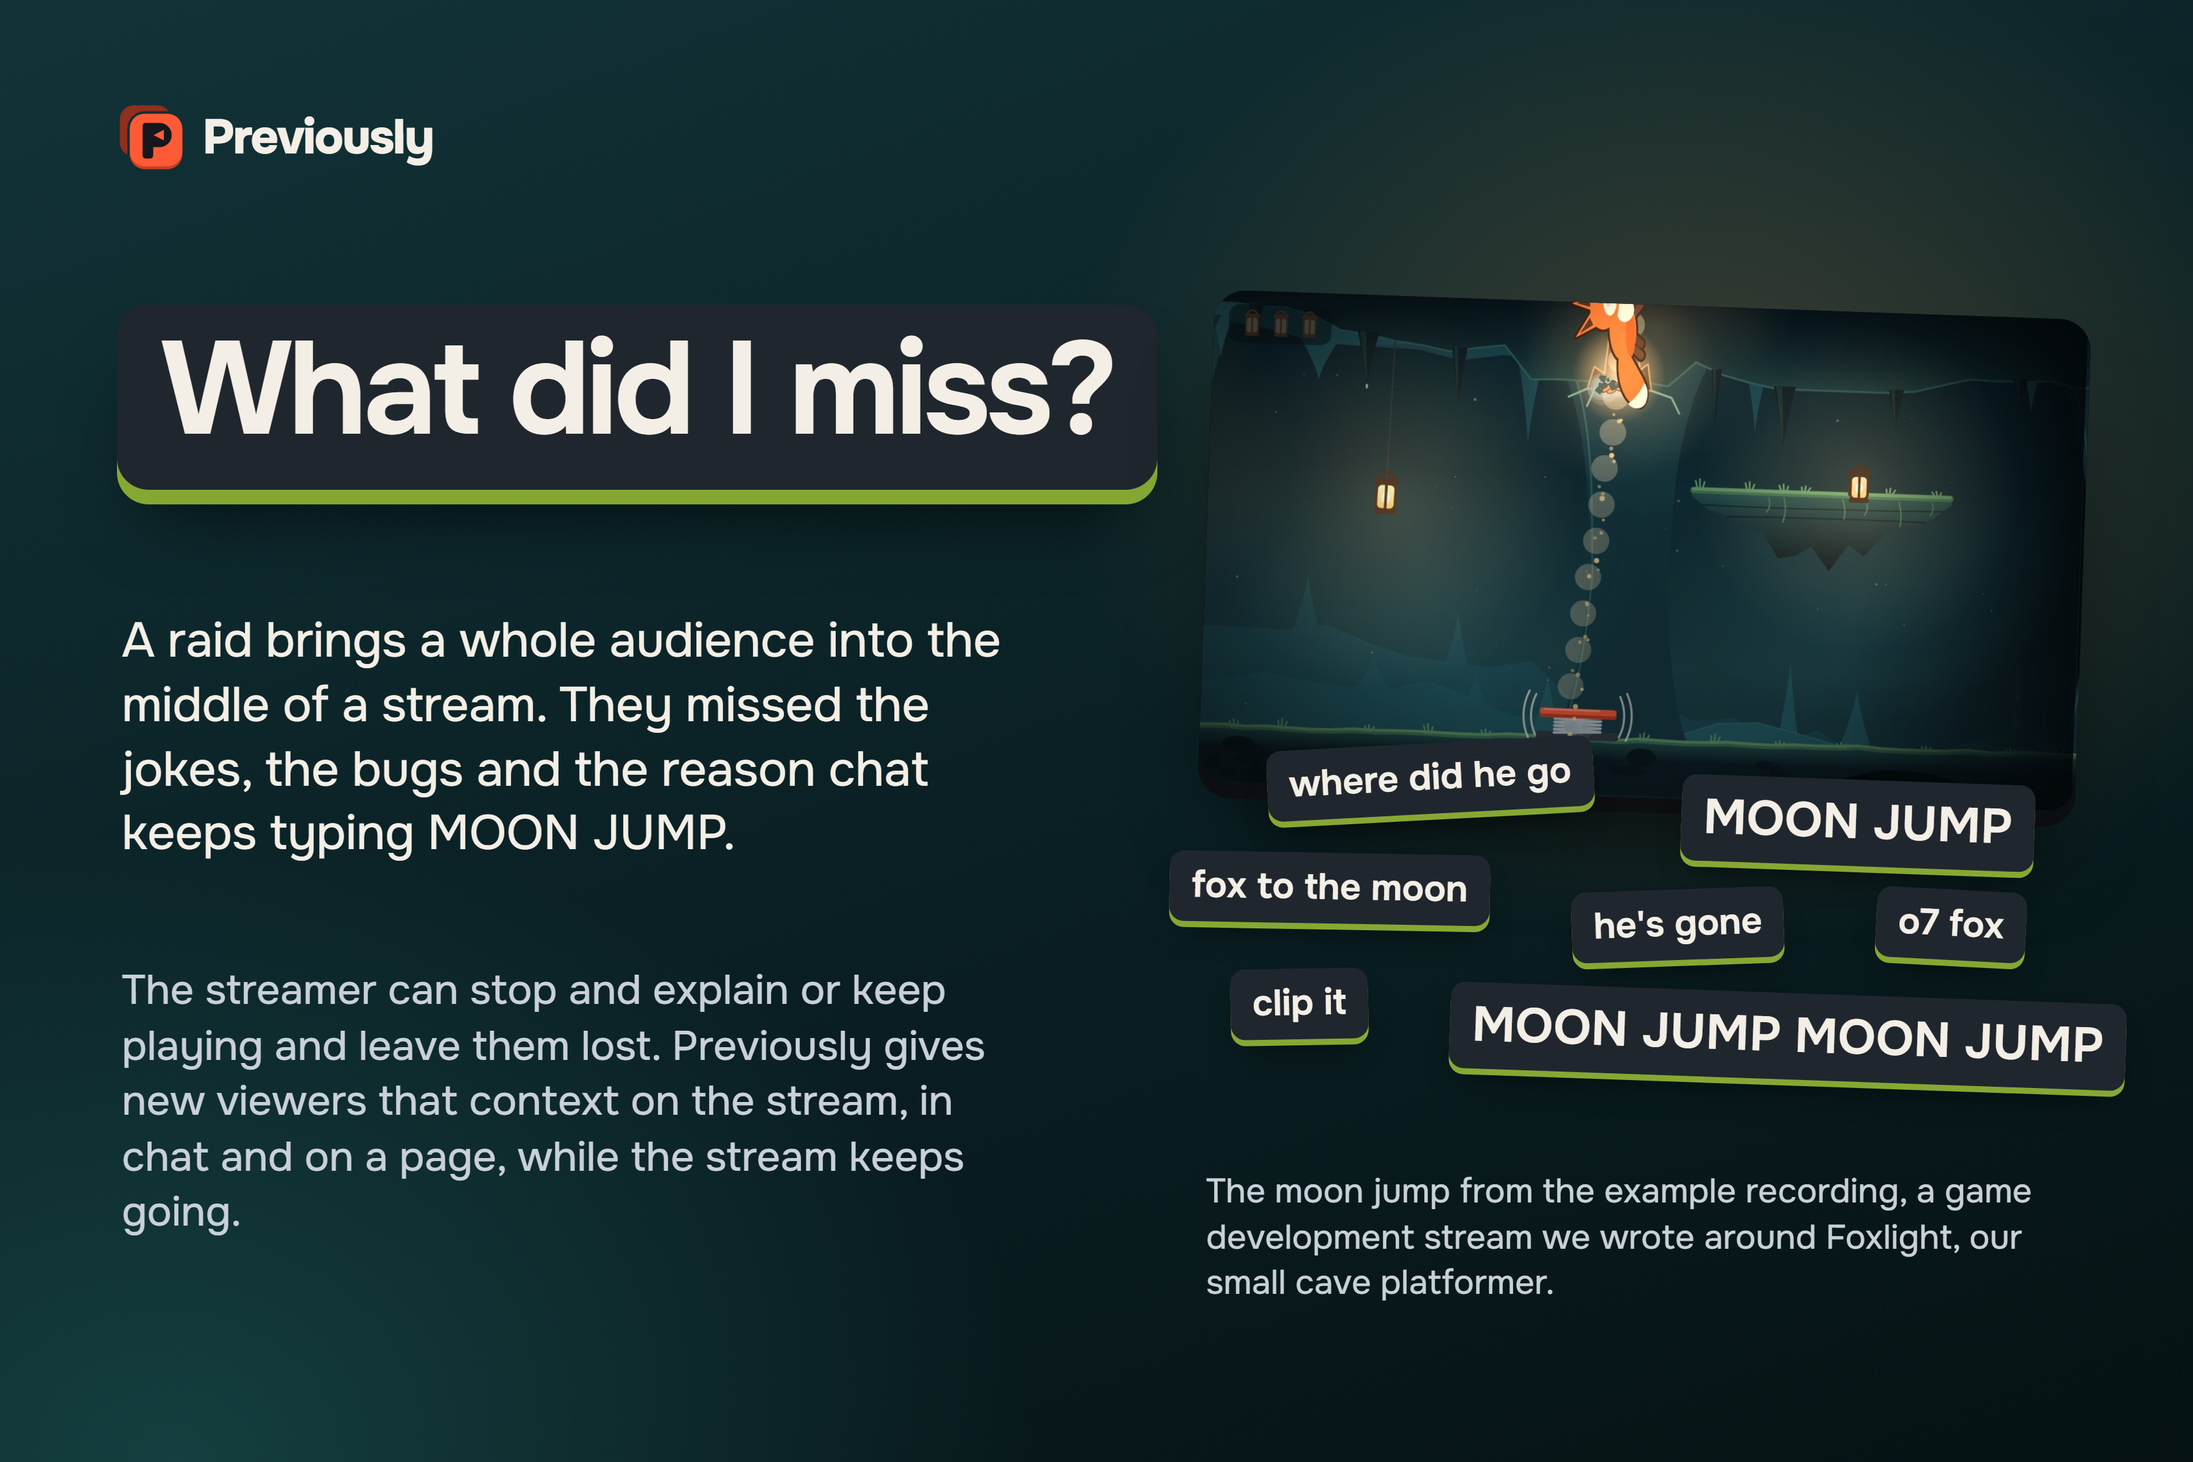
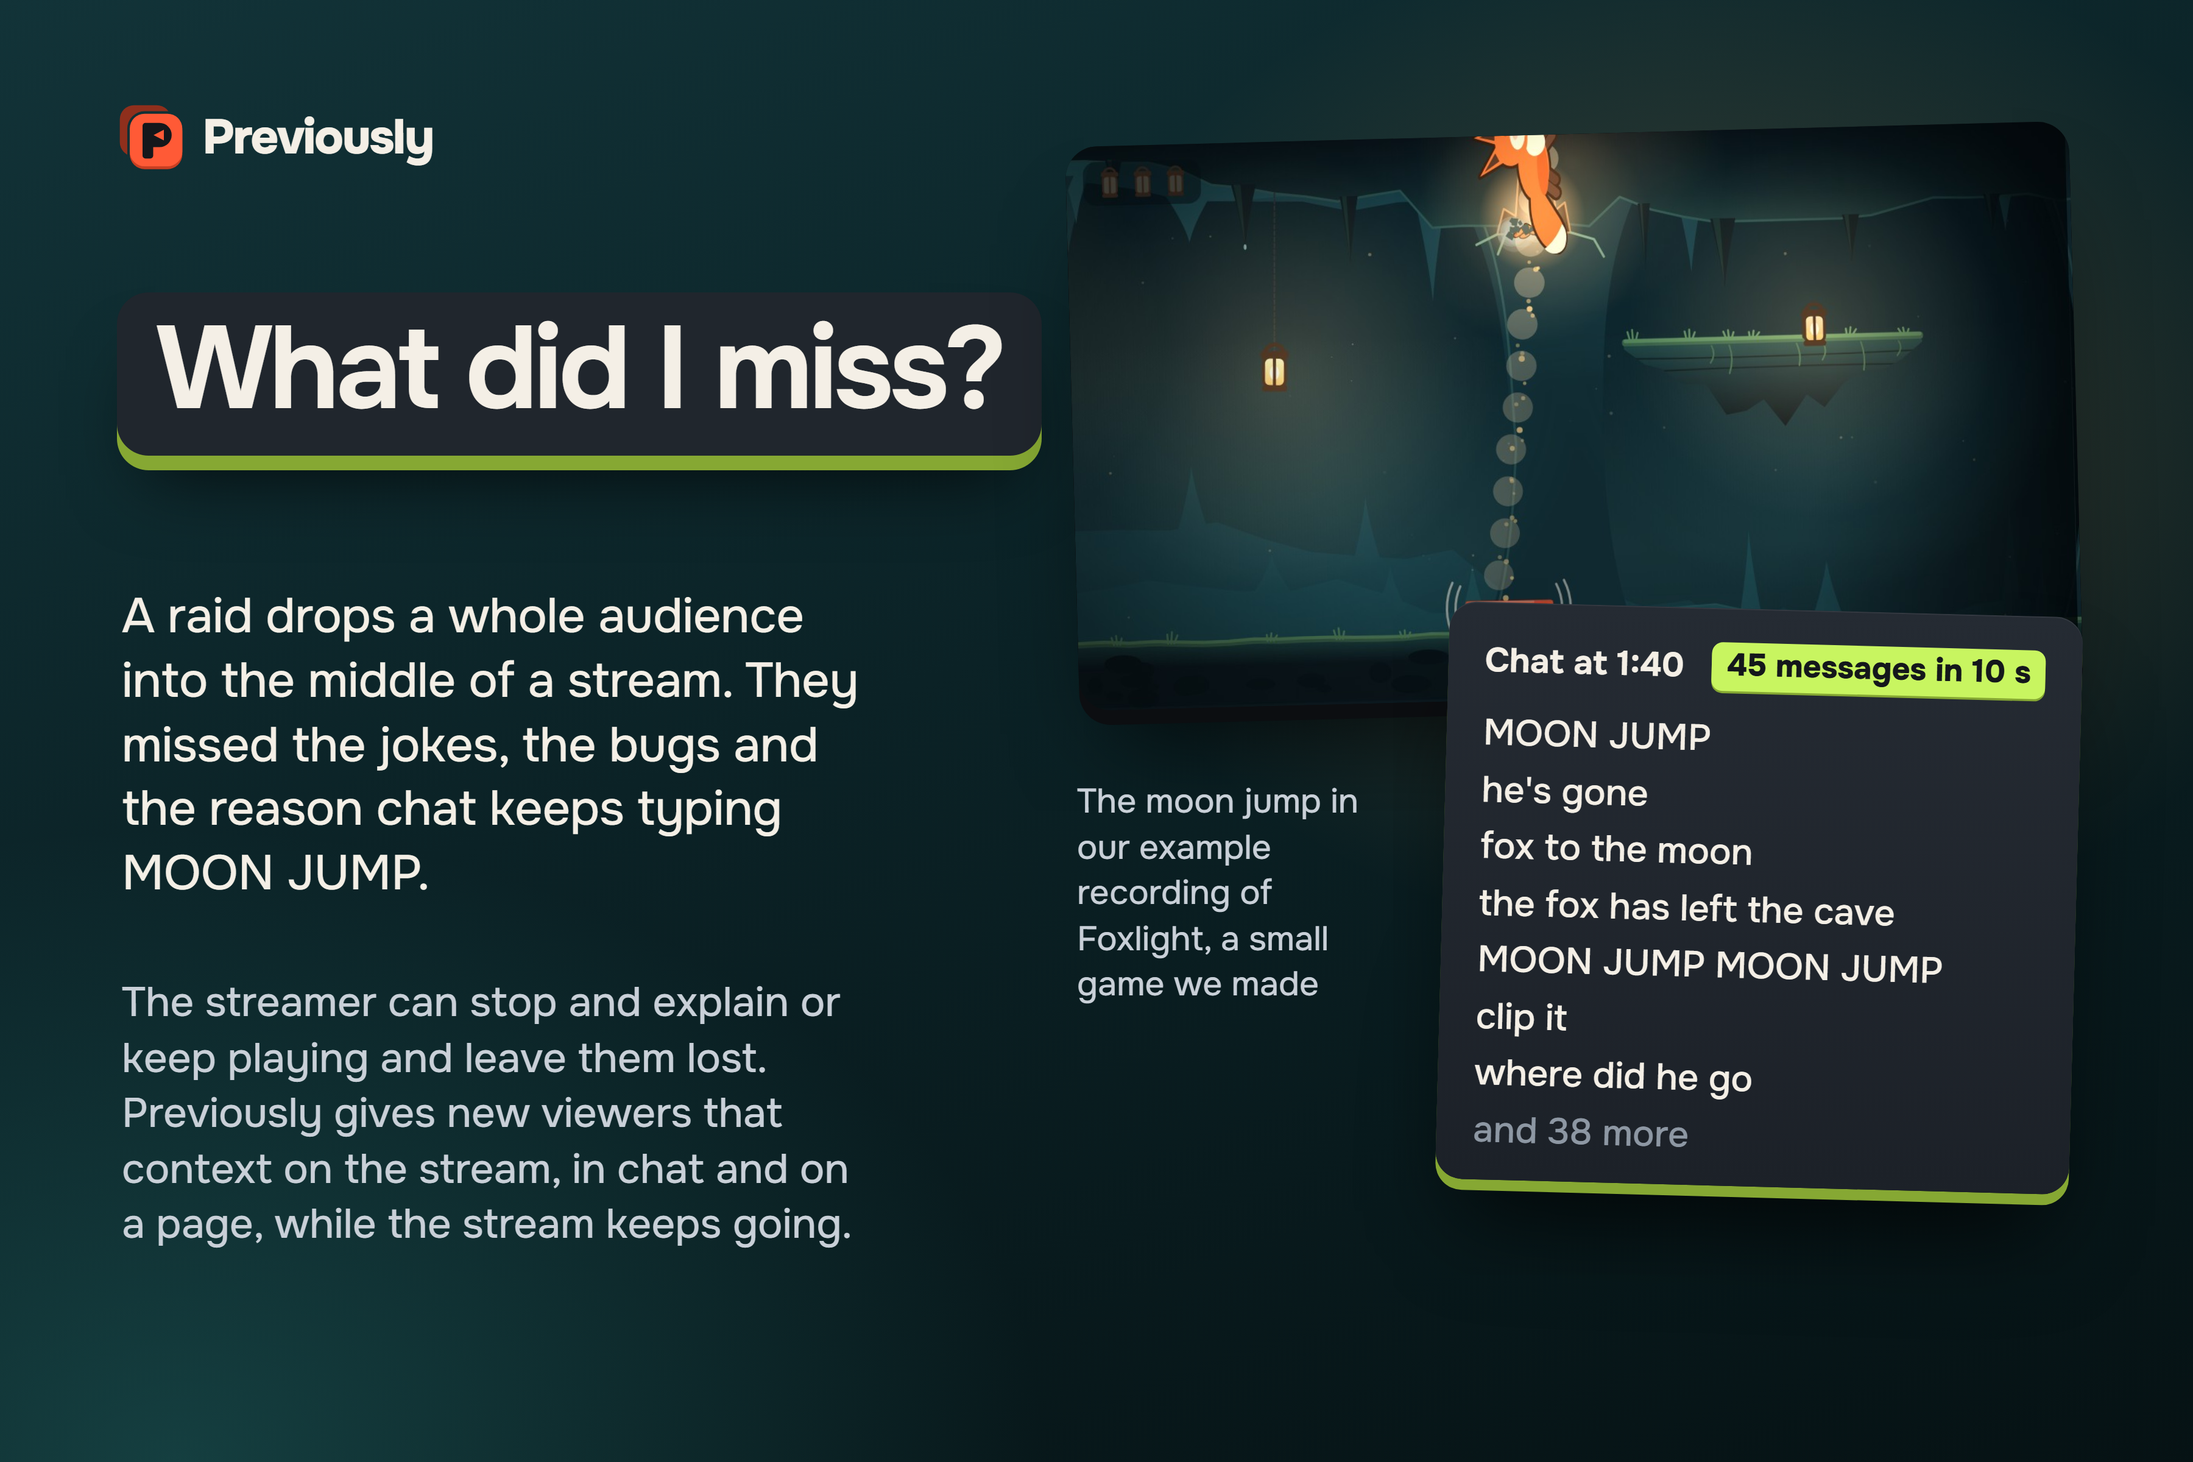
Readable chat moment in the gallery, more desktop screenshots and the video lower in the README

diff --git a/docs/gallery/source/deck.html b/docs/gallery/source/deck.html
@@ -126,31 +126,45 @@ img { display: block; }
 <!-- ============ 01 LATE ARRIVALS ============ -->
 <section class="slide cv-cave" id="late-arrivals" data-out="01-late-arrivals">
   <div class="logo" style="left:96px; top:84px;"><img src="../../../public/brand/mark.svg">Previously</div>
-  <div class="abs" style="left:96px; top:250px;"><span class="chip h1" style="font-size:108px; padding:18px 36px 28px; border-radius:26px; box-shadow: 0 12px 0 var(--lime-side), 0 40px 60px -24px rgba(0,0,0,.7);">What did I miss?</span></div>
-  <div class="abs lead" style="left:100px; top:500px; width:740px;">A raid brings a whole audience into the middle of a stream. They missed the jokes, the bugs and the reason chat keeps typing MOON JUMP.</div>
-  <div class="abs body muted-ink" style="left:100px; top:790px; width:720px;">The streamer can stop and explain or keep playing and leave them lost. Previously gives new viewers that context on the stream, in chat and on a page, while the stream keeps going.</div>
-  <div class="frame" style="left:990px; top:250px; width:720px; height:405px; transform: rotate(2deg);"><img src="../../../public/demo/foxlight/clip-moon.jpg"></div>
-  <div class="abs" style="left:1040px; top:610px; transform: rotate(-3deg);"><span class="chip">where did he go</span></div>
-  <div class="abs" style="left:1380px; top:640px; transform: rotate(2deg);"><span class="chip" style="font-size:40px;">MOON JUMP</span></div>
-  <div class="abs" style="left:960px; top:700px; transform: rotate(1deg);"><span class="chip">fox to the moon</span></div>
-  <div class="abs" style="left:1290px; top:730px; transform: rotate(-2deg);"><span class="chip">he's gone</span></div>
-  <div class="abs" style="left:1540px; top:730px; transform: rotate(3deg);"><span class="chip">o7 fox</span></div>
-  <div class="abs" style="left:1010px; top:795px; transform: rotate(-1deg);"><span class="chip">clip it</span></div>
-  <div class="abs" style="left:1190px; top:815px; transform: rotate(2deg);"><span class="chip" style="font-size:40px;">MOON JUMP MOON JUMP</span></div>
-  <div class="abs small muted-ink" style="left:990px; top:960px; width:720px;">The moon jump from the example recording, a game development stream we wrote around Foxlight, our small cave platformer.</div>
+  <div class="abs" style="left:96px; top:240px;"><span class="chip h1" style="font-size:96px; padding:16px 32px 24px; border-radius:26px; box-shadow: 0 12px 0 var(--lime-side), 0 40px 60px -24px rgba(0,0,0,.7);">What did I miss?</span></div>
+  <div class="abs lead" style="left:100px; top:480px; width:640px;">A raid drops a whole audience into the middle of a stream. They missed the jokes, the bugs and the reason chat keeps typing MOON JUMP.</div>
+  <div class="abs body muted-ink" style="left:100px; top:800px; width:620px;">The streamer can stop and explain or keep playing and leave them lost. Previously gives new viewers that context on the stream, in chat and on a page, while the stream keeps going.</div>
+
+  <div class="frame" style="left:880px; top:110px; width:824px; height:463px; transform: rotate(-1.5deg);"><img src="../../../public/demo/foxlight/clip-moon.jpg"></div>
+  <div class="icard" style="left:1184px; top:500px; width:520px; padding:28px 30px 24px; transform: rotate(1.5deg); box-shadow: 0 9px 0 var(--lime-side), 0 50px 80px -24px rgba(0,0,0,.8), inset 0 1px 0 rgba(255,255,255,.07);">
+    <div style="display:flex; align-items:center; justify-content:space-between; gap:16px;">
+      <span style="font-size:28px; font-weight:700;">Chat at 1:40</span>
+      <span class="plate l" style="font-size:26px; font-weight:800; padding:6px 12px 8px; border-radius:9px;">45 messages in 10 s</span>
+    </div>
+    <ol style="list-style:none; margin-top:22px; display:grid; gap:12px; font-size:30px; line-height:1.15; font-weight:500;">
+      <li>MOON JUMP</li>
+      <li>he's gone</li>
+      <li>fox to the moon</li>
+      <li>the fox has left the cave</li>
+      <li>MOON JUMP MOON JUMP</li>
+      <li>clip it</li>
+      <li>where did he go</li>
+      <li style="color:#8D97A3;">and 38 more</li>
+    </ol>
+  </div>
+  <div class="abs small muted-ink" style="left:884px; top:640px; width:270px;">The moon jump in our example recording of Foxlight, a small game we made</div>
 </section>
 
 <!-- ============ 02 RAID SCENE (anchor) ============ -->
 <section class="slide cv-verm" id="raid-scene" data-out="02-raid-scene">
-  <div class="abs h1" style="left:96px; top:96px; width:560px; font-size:88px;">When a raid lands, the stream plays its own <span class="plate k">Previously&nbsp;on</span></div>
-  <div class="abs body" style="left:100px; top:735px; width:520px; color:#2A0E07;">The scene is built from the story Previously has already published, so it starts as soon as the raid arrives. It greets the raiders, shows the clips that matter and the chat moment behind a running joke, then says what is happening now.</div>
-  <div class="frame" style="left:680px; top:96px; width:1024px; height:576px;"><img src="assets/scene/moon-burst.jpg"></div>
-  <div class="abs" style="left:680px; top:716px; width:1024px; display:grid; grid-template-columns: repeat(3, 1fr); gap:24px;">
-    <figure><div class="frame" style="position:relative; height:186px;"><img src="assets/scene/welcome.jpg"></div><figcaption class="small b" style="margin-top:26px; line-height:1.2;">Greets the raid by name</figcaption></figure>
-    <figure><div class="frame" style="position:relative; height:186px;"><img src="assets/scene/previously.jpg"></div><figcaption class="small b" style="margin-top:26px; line-height:1.2;">Opens the recap</figcaption></figure>
-    <figure><div class="frame" style="position:relative; height:186px;"><img src="assets/scene/now.jpg"></div><figcaption class="small b" style="margin-top:26px; line-height:1.2;">Ends on what is happening now</figcaption></figure>
-  </div>
-  <div class="abs small" style="left:680px; top:1052px; width:1024px; color:#3B1309;">From the example recording. Its chat and raid are written for the demo; the clips are real footage of Foxlight, the small game we made for it.</div>
+  <div class="abs h1" style="left:96px; top:84px; width:1620px; font-size:86px; white-space:nowrap;">Every raid gets its own <span class="plate k">Previously&nbsp;on</span></div>
+  <div class="frame" style="left:96px; top:262px; width:1110px; height:624px;"><img src="assets/scene/joke.jpg"></div>
+  <span class="abs ctl k" style="left:122px; top:240px; z-index:2;">Explains the joke chat named</span>
+
+  <div class="frame" style="left:1250px; top:262px; width:454px; height:255px;"><img src="assets/scene/welcome.jpg"></div>
+  <span class="abs ctl k" style="left:1272px; top:240px; z-index:2;">Greets the raid</span>
+  <div class="frame" style="left:1250px; top:564px; width:454px; height:255px;"><img src="assets/scene/previously.jpg"></div>
+  <span class="abs ctl k" style="left:1272px; top:542px; z-index:2;">Opens the recap</span>
+  <div class="frame" style="left:1250px; top:866px; width:454px; height:255px;"><img src="assets/scene/now.jpg"></div>
+  <span class="abs ctl k" style="left:1272px; top:844px; z-index:2;">Ends on right now</span>
+
+  <div class="abs body" style="left:100px; top:928px; width:1100px; color:#2A0E07;">It is built from the story already published, so it plays the moment the raid arrives, with the chapters and their real clips.</div>
+  <div class="abs small" style="left:100px; top:1072px; width:1100px; color:#3B1309;">From the example recording. Its chat and raid are written for the demo; the clips are real footage of Foxlight, the small game we made for it.</div>
 </section>
 
 <!-- ============ 03 CHAT COMMAND ============ -->

diff --git a/README.md b/README.md
@@ -12,8 +12,6 @@ Previously follows a Twitch stream while it happens. It listens to the streamer'
   <a href="https://previously-seven.vercel.app/replay"><b>Watch the example recording</b></a>&emsp;&emsp;<a href="#run-it-for-your-channel"><b>Run it for your channel</b></a>&emsp;&emsp;<a href="#how-the-story-is-built"><b>See how it works</b></a>
 </p>
 
-https://github.com/user-attachments/assets/403faf40-6864-4395-9494-d190995cd7de
-
 <p align="center"><img src="docs/readme/scene-loop.webp" width="720" alt="The Previously raid scene playing over Foxlight gameplay: chapter cards with real clips, chat's moon jump burst folding into the term, and the card saying what is happening now"></p>
 <p align="center"><sub>The raid scene from the example recording, captured from the app</sub></p>
 
@@ -37,10 +35,12 @@ A raid brings a group of people who have no idea what the stream is about. Regul
 
 In the example recording, Foxlight Dev is building a small cave platformer. At 1:40 a spring pad launches the fox through the ceiling and chat floods with "MOON JUMP". At 3:30 the spring gets a speed limit, and the moon jump stays in the game as a secret cheat. When pixelmoth raids with 37 viewers at 7:10, the scene walks them through the chapters with the real gameplay clips, shows chat's burst turning into the term "moon jump" and what it means, and ends on what is happening now: making the lantern behind the waterfall reachable. Then the overlay clears the screen.
 
-<p align="center"><img src="docs/readme/shot-scene-chapters.jpg" width="32%" alt="Raid scene: the first chapter card, Fox learns to jump, playing its gameplay clip over the stream"> <img src="docs/readme/shot-scene-chat.jpg" width="32%" alt="Raid scene: real chat lines saying MOON JUMP piling up next to the moon jump clip, 45 messages in ten seconds"> <img src="docs/readme/shot-scene-now.jpg" width="32%" alt="Raid scene: the final card saying the streamer is making the lantern behind the waterfall reachable"></p>
-<p align="center"><sub>The chapters so far, chat's moon jump burst, and what is happening now</sub></p>
+<p align="center"><img src="docs/readme/shot-scene-chapters.jpg" width="32%" alt="Raid scene: the first chapter card, Fox learns to jump, playing its gameplay clip over the stream"> <img src="docs/readme/shot-scene-chat.jpg" width="32%" alt="Raid scene: the moon jump chapter card next to a card explaining the term chat named: when the spring had no speed limit, it launched the fox through the ceiling"> <img src="docs/readme/shot-scene-now.jpg" width="32%" alt="Raid scene: the final card saying the streamer is making the lantern behind the waterfall reachable"></p>
+<p align="center"><sub>The chapters with their clips, the joke chat named explained, and what is happening now</sub></p>
 
 The same story answers `!previously` in chat and fills the channel's public page, where a late viewer can open the source behind any chapter. Every sentence is held back for 75 seconds after its last source and checked before anyone sees it, so the streamer has time to fix or remove it first.
+
+https://github.com/user-attachments/assets/403faf40-6864-4395-9494-d190995cd7de
 
 ## Try the example recording
 
@@ -51,8 +51,14 @@ The [hosted example](https://previously-seven.vercel.app/replay) needs no accoun
 3. In **Change the recap**, choose **Apply my wording** to rename the third chapter to "Moon jump becomes a cheat code", then **Preview the next raid scene** to see the correction in the scene.
 4. Switch the recap between English and Russian, or **Open the streamer dock** and type your own wording. The recording only contains safety checks for its own wording, so yours stays held, the same way a live edit waits when a check is unavailable. **Restart** gives you a fresh run, and nothing you change leaves your tab.
 
+<p align="center"><img src="docs/readme/shot-replay-burst.jpg" width="49%" alt="The example recording at 1:50, with 45 chat messages about the moon jump in the last ten seconds"> <img src="docs/readme/shot-replay-sources.jpg" width="49%" alt="The recap section with the sources behind the latest chapter: what the streamer said and what chat wrote, each with its time"></p>
+<p align="center"><sub>Chat's moon jump at 1:50 in the recording, and the speech and chat behind the latest chapter</sub></p>
+
 <p align="center"><img src="docs/readme/shot-replay.jpg" width="49%" alt="The example replay page with the raid scene over gameplay, the published chapters and the stream chat"> <img src="docs/readme/shot-recap-page.jpg" width="49%" alt="The public recap page for Foxlight Dev with what is happening now and the chapters with their clips"></p>
 <p align="center"><sub>The example replay after the raid, and the public recap page a late viewer opens from chat</sub></p>
+
+<p align="center"><img src="docs/readme/shot-replay-corrected.jpg" width="49%" alt="The recap after Apply my wording, with the third chapter renamed Moon jump becomes a cheat code and marked as edited by the streamer"> <img src="docs/readme/shot-replay-correction.jpg" width="49%" alt="The Change the recap panel showing the replaced chapter, the applied wording and a note that the recap page, chat answer and next raid scene use it"></p>
+<p align="center"><sub>One correction in the example: the recap uses it at once, and the panel shows where it went</sub></p>
 
 To run the same example on your own computer (Windows, Node.js 22.13 or newer, npm), open PowerShell in the folder with `package.json`:
 
@@ -106,6 +112,9 @@ You need Windows, Node.js 22.13 or newer, a modern desktop browser, OBS, your Tw
 6. **Go live in OBS**, then choose **Check again** in setup until the stream session appears. Connecting the account does not start a session; only a live stream does.
 7. **Open the dock** at [https://localhost:4317/dock](https://localhost:4317/dock) in a normal browser tab. Listening starts paused, so choose **Resume listening** or **Start microphone**, allow the microphone and leave the tab open.
 8. **Add the scene to OBS.** In setup, choose **Copy OBS overlay URL** and add it as a 1920 × 1080 Browser Source. The URL grants access to your overlay, so keep it private.
+
+<p align="center"><img src="docs/readme/shot-setup.jpg" width="49%" alt="The setup page: step one checks local storage, the OpenAI key and the Twitch app and says what to add to .env"> <img src="docs/readme/shot-setup-steps.jpg" width="49%" alt="The setup page further down: choosing when to listen, adding the scene to OBS and previewing it"></p>
+<p align="center"><sub>The setup page checks each step and says what is missing before the first stream</sub></p>
 
 The first chapter needs about two to three minutes of talking, because speech is sent in 20-second chunks and each sentence waits out the hold and its checks. From the second account, `!previously` gets the latest chapters, or a note that the first recap is still being prepared. To test a raid, type `/raid <your login>` in the second account's own chat while your channel is live. All paid calls share a $4.50 ceiling stored in the local database, and every call reserves more than it is likely to cost, so the ceiling is reached well before $4.50 of real spend.
 
